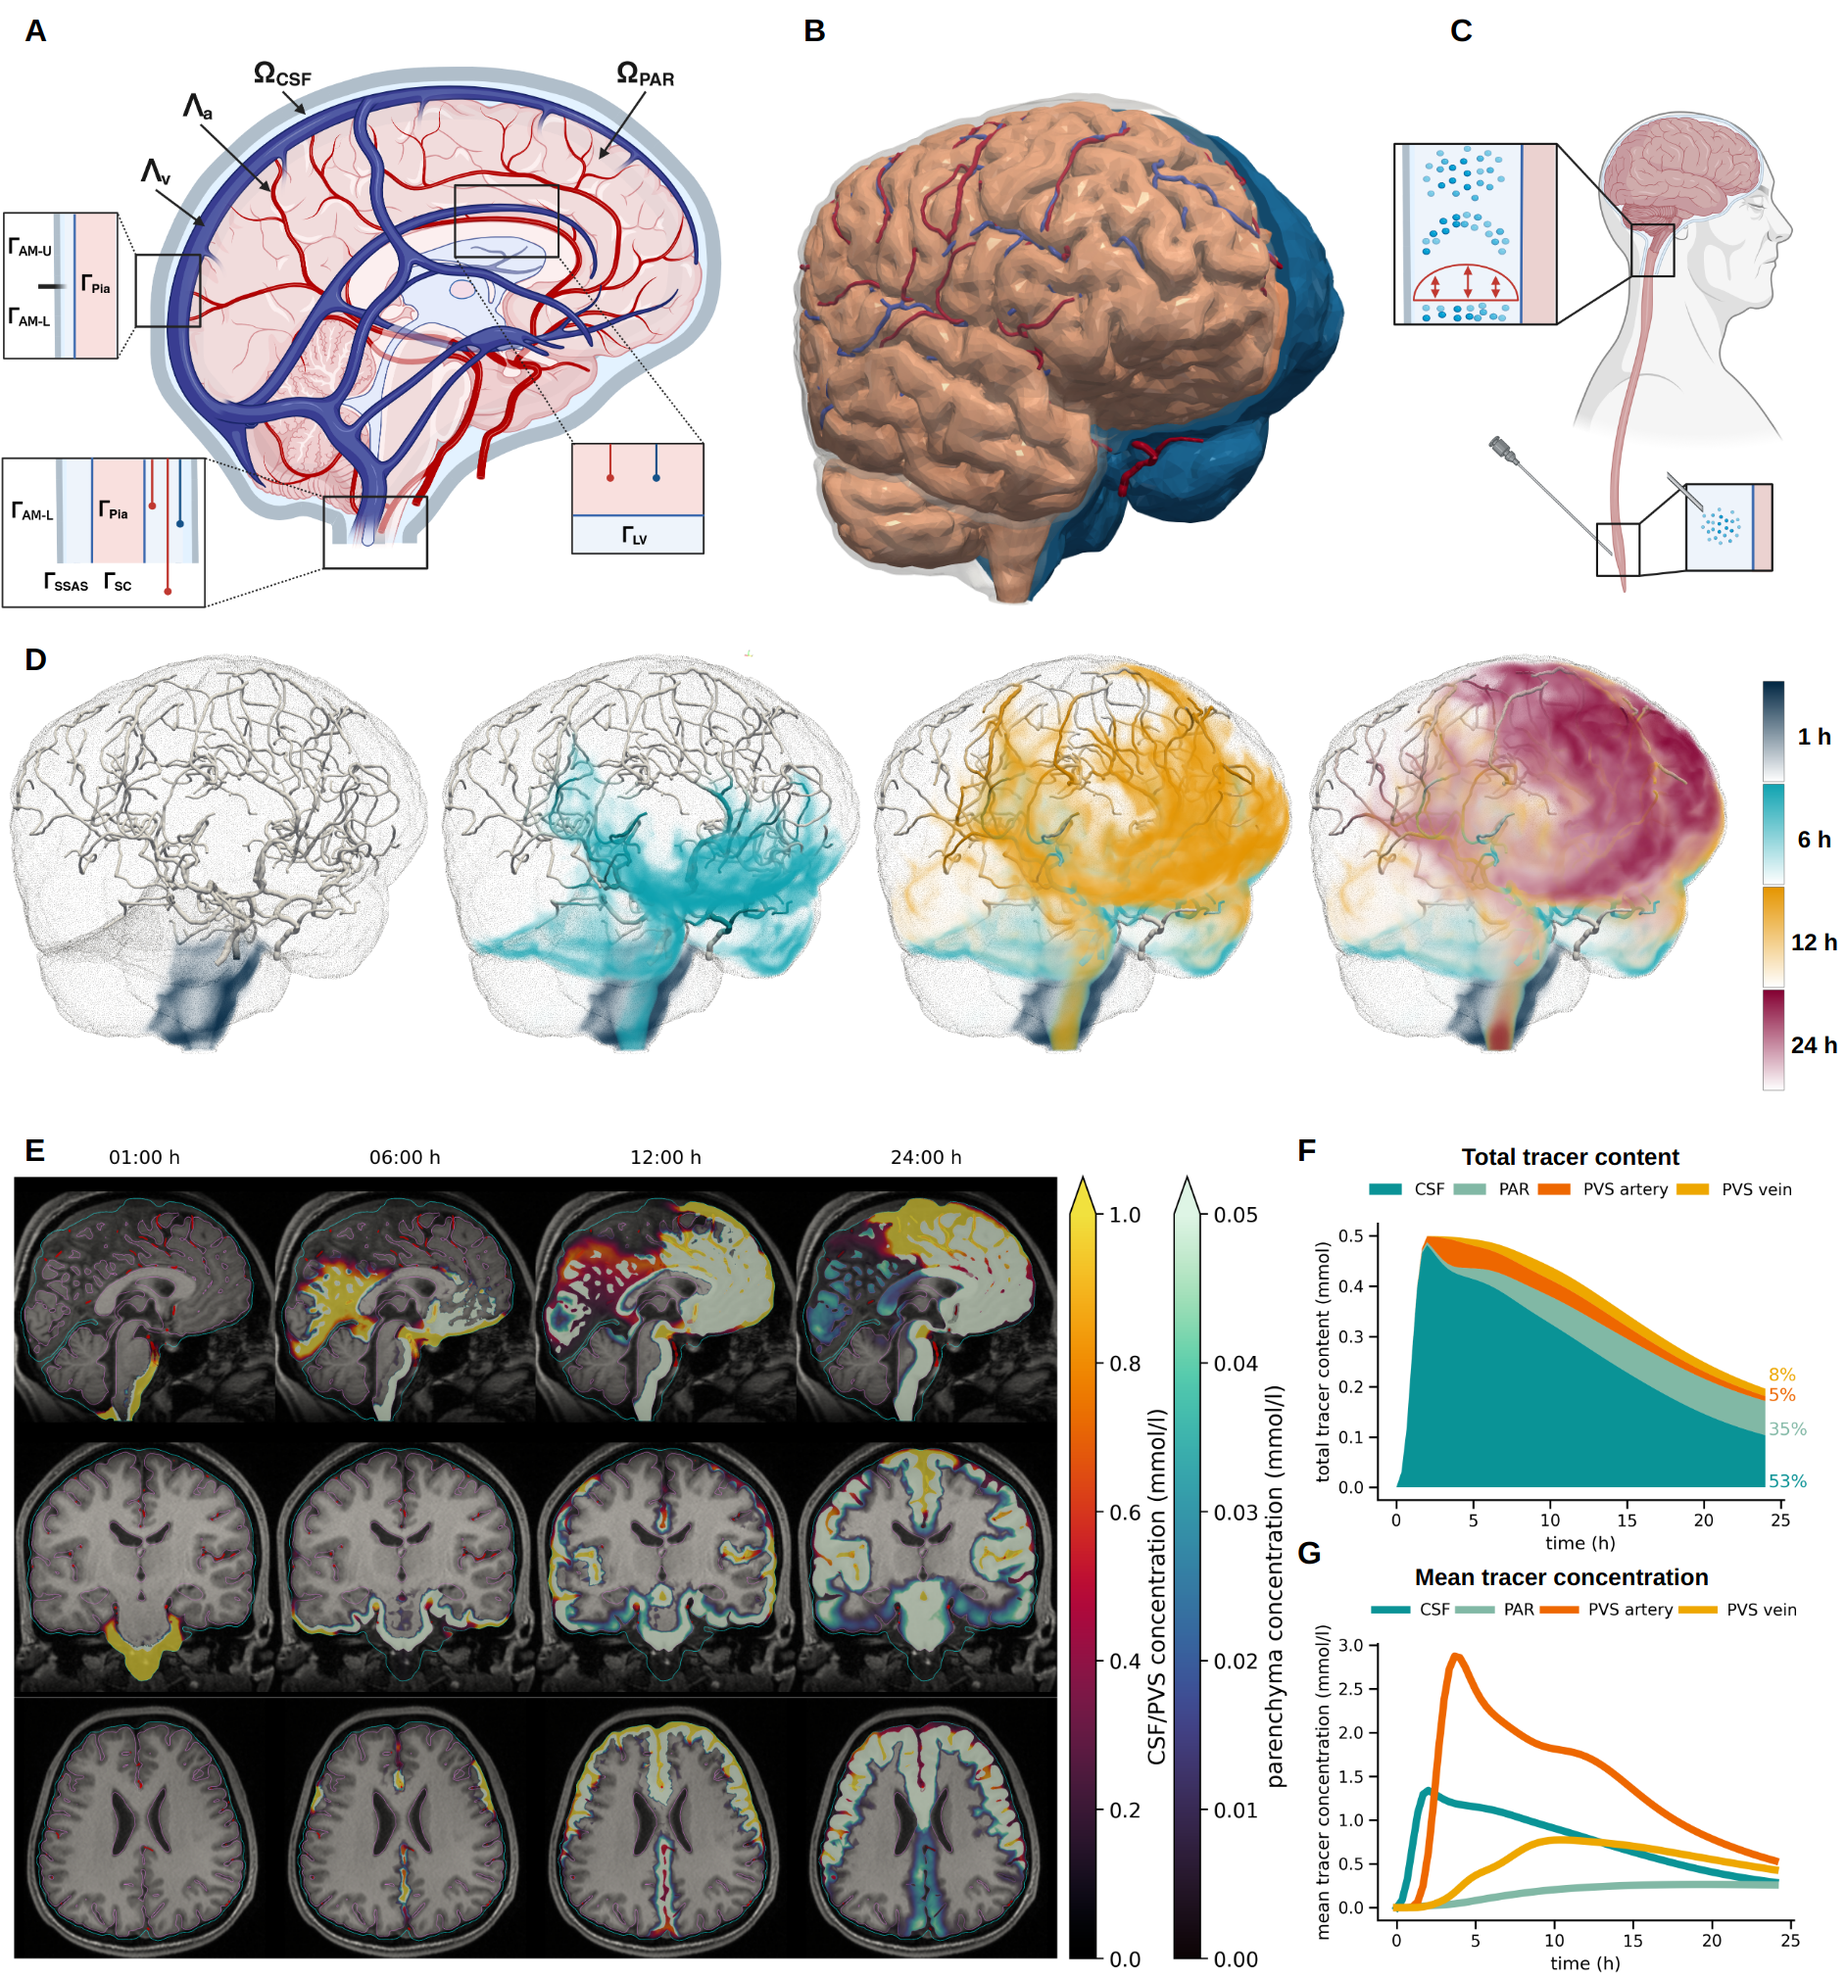
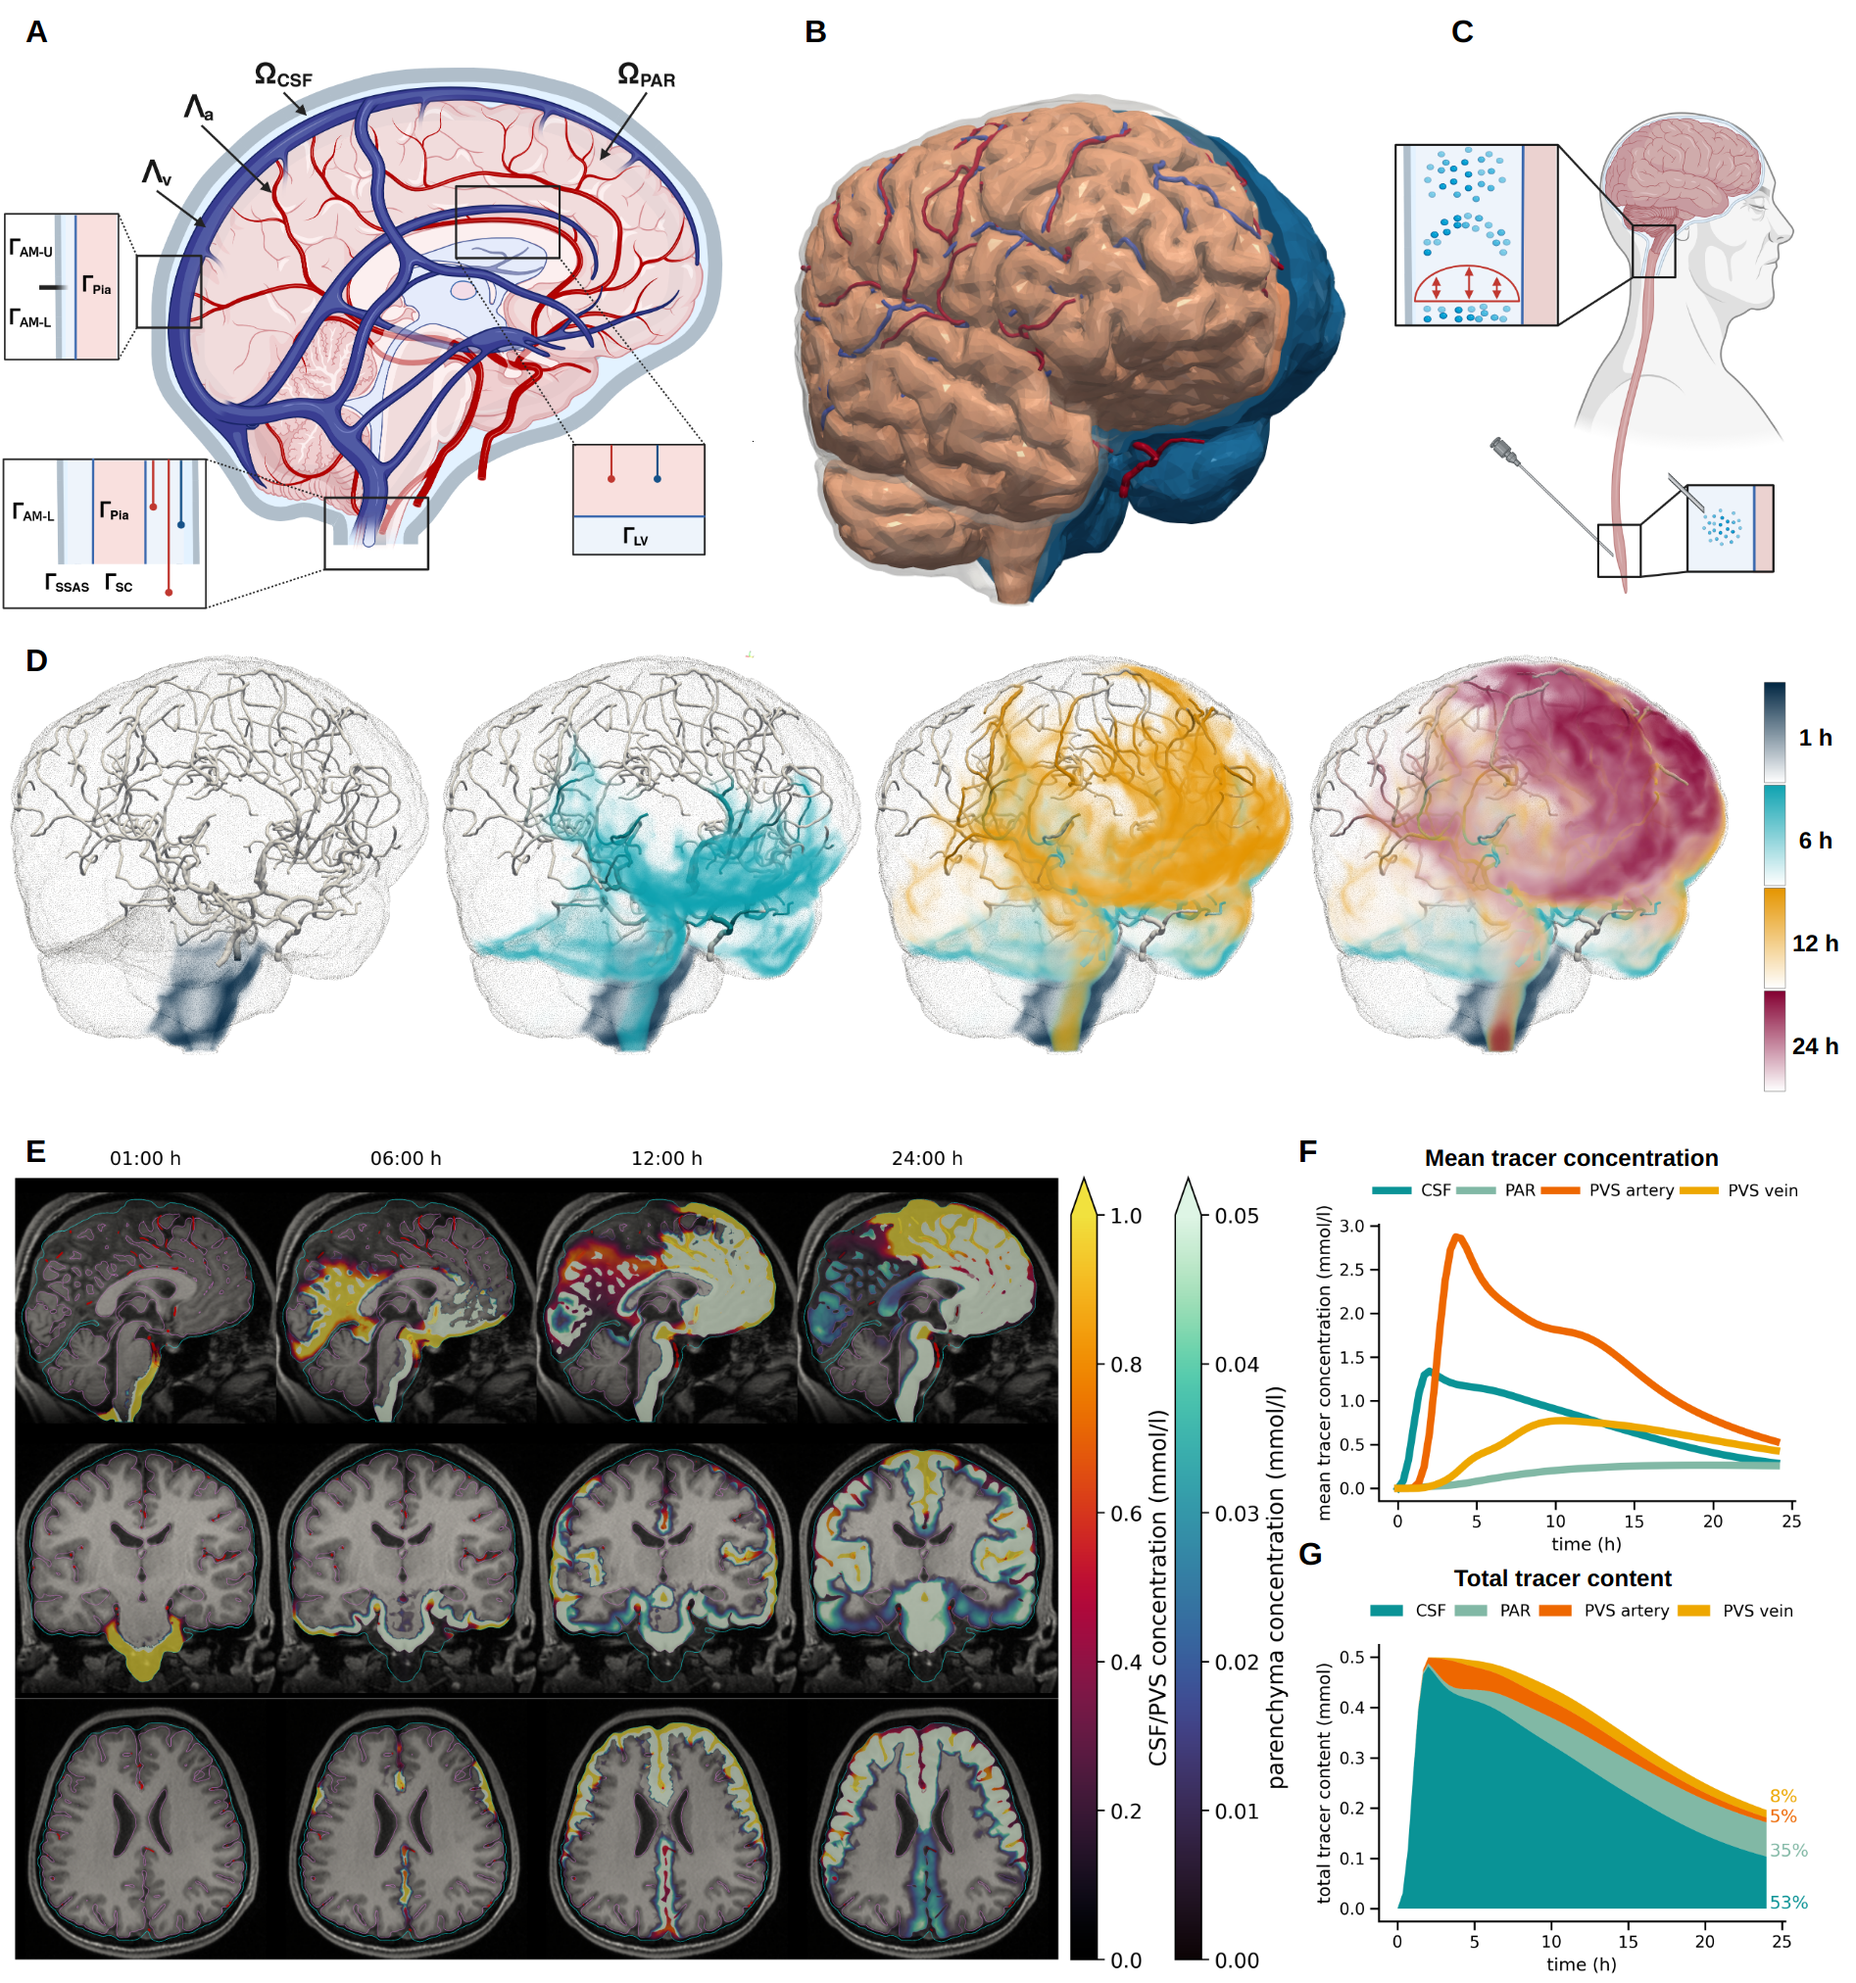
update figure 1 again

diff --git a/figure1.html b/figure1.html
@@ -38,8 +38,8 @@
 </html>
 <img src="paper/figures/Brain-PVS-callouts.png" style="object-fit:contain;position:absolute;left:0px;top:31px;width:249px;height:218px;">
 <img src="plots/modelA/modelA_overview_1-6-12-24.png" style="object-fit:contain;position:absolute;left:-3px;top:414px;width:452px;height:287px;">
-<img src="plots/modelA/modelA_total_conc.png" style="object-fit:contain;position:absolute;left:443px;top:414px;width:180px;height:150px;">
-<img src="plots/modelA/modelA_mean_conc.png" style="object-fit:contain;position:absolute;left:443px;top:557px;width:180px;height:150px;">
+<img src="plots/modelA/modelA_mean_conc.png" style="object-fit:contain;position:absolute;left:443px;top:414px;width:180px;height:150px;">
+<img src="plots/modelA/modelA_total_conc.png" style="object-fit:contain;position:absolute;left:443px;top:557px;width:180px;height:150px;">
 <img src="paper/figures/brain_mesh_vessels.png" style="object-fit:contain;position:absolute;left:253px;top:27px;width:218px;height:244px;">
 <img src="paper/figures/injection.png" style="object-fit:contain;position:absolute;left:471px;top:52px;width:154px;height:192px;">
 <h4 style="position:absolute;left:10px;top:11px;width:31px;height:24px;">A</h4>
@@ -49,8 +49,8 @@
 <h4 style="position:absolute;left:10px;top:392px;width:31px;height:24px;">E</h4>
 <h4 style="position:absolute;left:443px;top:392px;width:31px;height:24px;">F</h4>
 <h4 style="position:absolute;left:443px;top:529px;width:31px;height:24px;">G</h4>
-<p style="position:absolute;left:456px;top:408px;width:160px;height:12px;">Total tracer content</p>
-<p style="position:absolute;left:453px;top:551px;width:160px;height:12px;">Mean tracer concentration</p>
+<p style="position:absolute;left:456px;top:408px;width:160px;height:12px;">Mean tracer concentration</p>
+<p style="position:absolute;left:453px;top:551px;width:160px;height:12px;">Total tracer content</p>
 <img src="plots/modelA/timeview3D/timeview3D_volume_3600.png" style="filter:hue-rotate(0deg);object-fit:contain;position:absolute;left:-14px;top:238px;width:180px;height:160px;">
 <img src="plots/modelA/timeview3D/timeview3D_volume_21600.png" style="filter:hue-rotate(0deg);object-fit:contain;position:absolute;left:133px;top:238px;width:180px;height:160px;">
 <img src="plots/modelA/timeview3D/timeview3D_volume_43200.png" style="filter:hue-rotate(0deg);object-fit:contain;position:absolute;left:280px;top:238px;width:180px;height:160px;">
